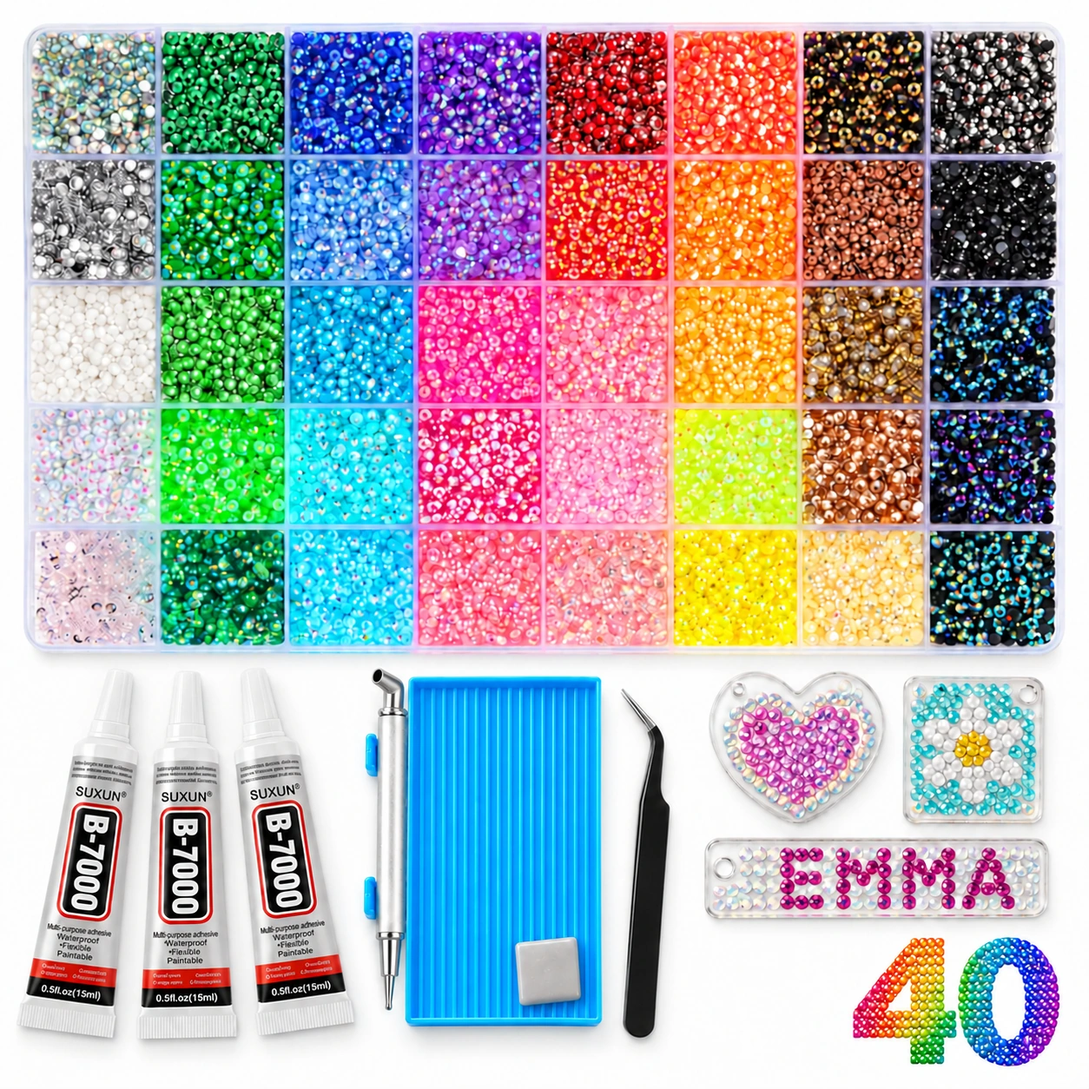
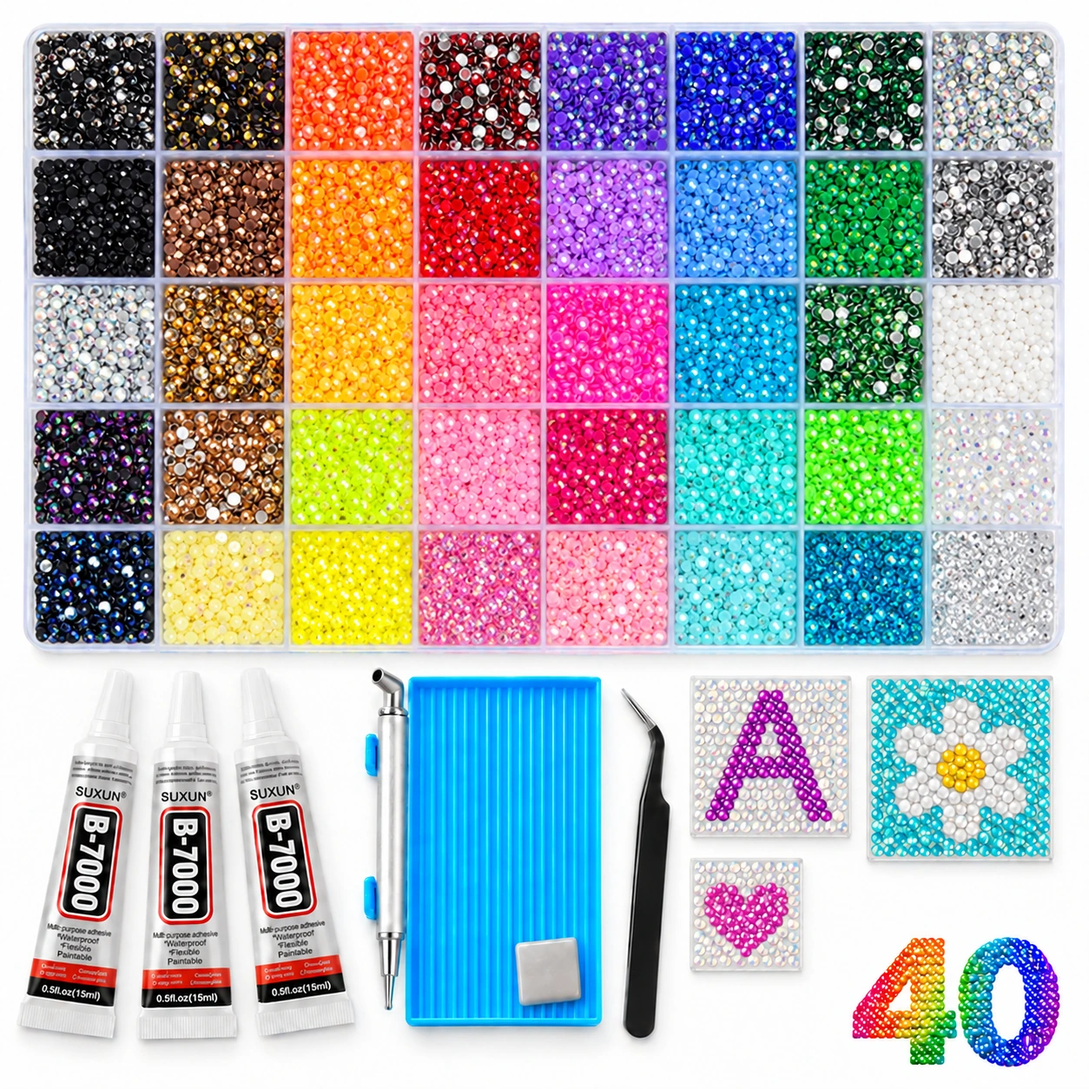
Correct forty-colour palette and compartment order from physical sample

diff --git a/app-localized.js b/app-localized.js
@@ -50,7 +50,7 @@
     updateSizeNote();if($('sizeQuantity'))$('sizeQuantity').textContent=state.pattern.total.toLocaleString();if($('fullStoneCount'))$('fullStoneCount').textContent=(state.fullTotal||0).toLocaleString();
     renderList();render();return true;}catch(e){markPending();toast(e.message);return false;}}
   function selectColour(i){const active=document.activeElement,container=active&&active.closest?active.closest('#colorList,#boxGrid'):null,index=container?Array.from(container.querySelectorAll('button')).indexOf(active):-1;state.highlight=state.highlight===i?null:i;state.compare=false;$('compareButton').setAttribute('aria-pressed','false');$('compareButton').textContent='Original image';renderList();render();if(index>=0)container.querySelectorAll('button')[index]?.focus({preventScroll:true});}
-  function renderBox(){const box=$('boxGrid');box.replaceChildren();palette.forEach((colour,i)=>{const count=state.pattern.counts[i],button=document.createElement('button');button.className='box-cell'+(!count?' unused':'')+(state.highlight===i?' active':'');const photo=document.createElement('span');photo.className='compartment-photo';const picture=document.createElement('img');picture.src='assets/spark/kit-reference.webp';picture.alt='';picture.loading='lazy';picture.style.cssText='width:929%;left:-'+((42+(colour.column-1)*149)/135*100)+'%;top:-'+((37+(colour.row-1)*143)/135*100)+'%;';photo.append(picture);const number=document.createElement('span');number.className='compartment-number';number.textContent=Number(colour.id);button.append(photo,number);button.style.setProperty('--stone-colour',colour.hex);button.setAttribute('aria-pressed',String(state.highlight===i));button.setAttribute('aria-label','Number '+Number(colour.id)+', row '+colour.row+', column '+colour.column+', '+count+' stones');button.title=colour.name+' · row '+colour.row+', column '+colour.column;button.addEventListener('click',()=>selectColour(i));box.append(button);});if(state.highlight===null){$('boxPosition').textContent='Choose a number to locate its compartment.';}else{const c=palette[state.highlight],count=state.pattern.counts[state.highlight];$('boxPosition').textContent='No. '+Number(c.id)+' · Row '+c.row+', column '+c.column+' · '+(count?count+' stones needed':'Not used in this pattern');$('previewTip').textContent=count?'Showing number '+Number(c.id)+'. Select it again to show all colours.':'Number '+Number(c.id)+' is not used in this pattern.';}}
+  function renderBox(){const box=$('boxGrid');box.replaceChildren();palette.forEach((colour,i)=>{const count=state.pattern.counts[i],button=document.createElement('button');button.className='box-cell'+(!count?' unused':'')+(state.highlight===i?' active':'');const photo=document.createElement('span');photo.className='compartment-photo';const picture=document.createElement('img');picture.src=colour.photo.src;picture.alt='';picture.loading='lazy';const [x0,y0,x1,y1]=colour.photo.box,pw=x1-x0,ph=y1-y0;picture.style.cssText='width:'+(colour.photo.width/pw*100)+'%;height:'+(colour.photo.height/ph*100)+'%;left:-'+(x0/pw*100)+'%;top:-'+(y0/ph*100)+'%;';photo.append(picture);const number=document.createElement('span');number.className='compartment-number';number.textContent=Number(colour.id);button.append(photo,number);button.style.setProperty('--stone-colour',colour.hex);button.setAttribute('aria-pressed',String(state.highlight===i));button.setAttribute('aria-label','Number '+Number(colour.id)+', row '+colour.row+', column '+colour.column+', '+count+' stones');button.title=colour.name+' · row '+colour.row+', column '+colour.column;button.addEventListener('click',()=>selectColour(i));box.append(button);});if(state.highlight===null){$('boxPosition').textContent='Choose a number to locate its compartment.';}else{const c=palette[state.highlight],count=state.pattern.counts[state.highlight];$('boxPosition').textContent='No. '+Number(c.id)+' · Row '+c.row+', column '+c.column+' · '+(count?count+' stones needed':'Not used in this pattern');$('previewTip').textContent=count?'Showing number '+Number(c.id)+'. Select it again to show all colours.':'Number '+Number(c.id)+' is not used in this pattern.';}}
   function renderList(){const list=$('colorList');list.replaceChildren();state.pattern.counts.forEach((count,i)=>{if(!count)return;const color=palette[i],button=document.createElement('button');button.className='color-row'+(state.highlight===i?' active':'');button.setAttribute('aria-label','Number '+Number(color.id)+', row '+color.row+', column '+color.column+', '+count+' stones');button.setAttribute('aria-pressed',String(state.highlight===i));button.innerHTML='<span class="color-swatch" style="background:'+color.hex+'"></span><span class="color-info"><strong>No. '+Number(color.id)+'</strong><small>Row '+color.row+' · Column '+color.column+'</small></span><span class="color-amount">'+count+'<small>stones</small></span>';button.addEventListener('click',()=>selectColour(i));list.append(button);});if(!state.pattern.total){const p=document.createElement('p');p.className='hint';p.textContent='No colours needed.';list.append(p);}$('clearHighlight').disabled=state.highlight===null;if(state.highlight===null)$('previewTip').textContent=state.pattern.total?'Choose a number to find its stones in the pattern.':'No stones in this pattern. Try another image or turn off white-area filtering.';renderBox();}
   function drawFacet(g,px,py,step,hex){
     const radius=step*.5,inner=radius*.52;
@@ -205,7 +205,7 @@
   }
   $('zoomIn').addEventListener('click',()=>zoom(state.zoom*1.5));$('zoomOut').addEventListener('click',()=>zoom(state.zoom/1.5));$('zoomReset').addEventListener('click',()=>zoom(1));
   $('imageInput').addEventListener('change',e=>loadImage(e.target.files[0]));$('dropZone').addEventListener('keydown',e=>{if(e.key==='Enter'||e.key===' '){e.preventDefault();$('imageInput').click();}});['dragenter','dragover'].forEach(type=>$('dropZone').addEventListener(type,e=>{e.preventDefault();$('dropZone').classList.add('dragover');}));['dragleave','drop'].forEach(type=>$('dropZone').addEventListener(type,e=>{e.preventDefault();$('dropZone').classList.remove('dragover');if(type==='drop')loadImage(e.dataTransfer.files[0]);}));
-  $('exportPng').addEventListener('click',exportPng);$('closeExport').addEventListener('click',()=>$('exportDialog').close());$('exportCsv').addEventListener('click',()=>{if(state.pending||!state.pattern.total)return;const csvCell=v=>'\"'+String(v).replaceAll('\"','\"\"')+'\"';const tr=v=>window.WallfidI18n?WallfidI18n.translate(v):v;const rows=[['Palette version','Pattern width mm','Pattern height mm','Stone diameter mm','Spacing mm','Pattern shape','Pattern style','Number','Row','Column','Photo description','Quantity','Stock status'].map(v=>csvCell(tr(v))).join(',')];state.pattern.counts.forEach((count,i)=>{if(count)rows.push([state.pattern.paletteVersion,state.pattern.width,state.pattern.height,state.pattern.diameter,state.pattern.pitch,state.pattern.shape,state.pattern.style||'full',Number(palette[i].id),palette[i].row,palette[i].column,tr(palette[i].name),count,tr('Not entered')].map(csvCell).join(','));});download(new Blob(['\ufeff'+rows.join('\r\n')],{type:'text/csv;charset=utf-8'}),'wallfid-quantities-photo-estimates.csv');});$('printButton').addEventListener('click',async()=>{if(state.pending||!state.pattern.total)return;const img=preparePrint();await Promise.all(Array.from($('printArea').querySelectorAll('img')).map(img=>img.decode()));window.print();});$('helpButton').addEventListener('click',()=>$('helpDialog').showModal());$('fullGuideButton').addEventListener('click',()=>$('helpDialog').showModal());$('closeHelp').addEventListener('click',()=>$('helpDialog').close());
+  $('exportPng').addEventListener('click',exportPng);$('closeExport').addEventListener('click',()=>$('exportDialog').close());$('exportCsv').addEventListener('click',()=>{if(state.pending||!state.pattern.total)return;const csvCell=v=>'\"'+String(v).replaceAll('\"','\"\"')+'\"';const tr=v=>window.WallfidI18n?WallfidI18n.translate(v):v;const rows=[['Palette version','Pattern width mm','Pattern height mm','Stone diameter mm','Spacing mm','Pattern shape','Pattern style','Number','Row','Column','Photo description','Quantity','Stock status'].map(v=>csvCell(tr(v))).join(',')];state.pattern.counts.forEach((count,i)=>{if(count)rows.push([state.pattern.paletteVersion,state.pattern.width,state.pattern.height,state.pattern.diameter,state.pattern.pitch,state.pattern.shape,state.pattern.style||'full',Number(palette[i].id),palette[i].row,palette[i].column,tr(palette[i].name),count,tr('Not entered')].map(csvCell).join(','));});download(new Blob(['\ufeff'+rows.join('\r\n')],{type:'text/csv;charset=utf-8'}),'wallfid-quantities-physical-v2.csv');});$('printButton').addEventListener('click',async()=>{if(state.pending||!state.pattern.total)return;const img=preparePrint();await Promise.all(Array.from($('printArea').querySelectorAll('img')).map(img=>img.decode()));window.print();});$('helpButton').addEventListener('click',()=>$('helpDialog').showModal());$('fullGuideButton').addEventListener('click',()=>$('helpDialog').showModal());$('closeHelp').addEventListener('click',()=>$('helpDialog').close());
   window.addEventListener('beforeprint',()=>{if(state.pattern&&!state.pending){if(!$('printArea').querySelector('img'))preparePrint();}else{const notice=document.createElement('p');notice.textContent='Changes have not been applied. Return to the workspace and select Create pattern before printing.';$('printArea').replaceChildren(notice);WallfidI18n.apply($('printArea'));}});useExample('flower');zoom(1);updateSizeNote();
   document.querySelectorAll('[data-starter]').forEach(button=>button.addEventListener('click',()=>{
     if(button.dataset.starter==='initial')$('initialInput').value='A';

diff --git a/app-wallfid.js b/app-wallfid.js
@@ -50,7 +50,7 @@
     updateSizeNote();if($('sizeQuantity'))$('sizeQuantity').textContent=state.pattern.total.toLocaleString();if($('fullStoneCount'))$('fullStoneCount').textContent=(state.fullTotal||0).toLocaleString();
     renderList();render();return true;}catch(e){markPending();toast(e.message);return false;}}
   function selectColour(i){const active=document.activeElement,container=active&&active.closest?active.closest('#colorList,#boxGrid'):null,index=container?Array.from(container.querySelectorAll('button')).indexOf(active):-1;state.highlight=state.highlight===i?null:i;state.compare=false;$('compareButton').setAttribute('aria-pressed','false');$('compareButton').textContent='Original image';renderList();render();if(index>=0)container.querySelectorAll('button')[index]?.focus({preventScroll:true});}
-  function renderBox(){const box=$('boxGrid');box.replaceChildren();palette.forEach((colour,i)=>{const count=state.pattern.counts[i],button=document.createElement('button');button.className='box-cell'+(!count?' unused':'')+(state.highlight===i?' active':'');const photo=document.createElement('span');photo.className='compartment-photo';const picture=document.createElement('img');picture.src='assets/spark/kit-reference.webp';picture.alt='';picture.loading='lazy';picture.style.cssText='width:929%;left:-'+((42+(colour.column-1)*149)/135*100)+'%;top:-'+((37+(colour.row-1)*143)/135*100)+'%;';photo.append(picture);const number=document.createElement('span');number.className='compartment-number';number.textContent=Number(colour.id);button.append(photo,number);button.style.setProperty('--stone-colour',colour.hex);button.setAttribute('aria-pressed',String(state.highlight===i));button.setAttribute('aria-label','Number '+Number(colour.id)+', row '+colour.row+', column '+colour.column+', '+count+' stones');button.title=colour.name+' · row '+colour.row+', column '+colour.column;button.addEventListener('click',()=>selectColour(i));box.append(button);});if(state.highlight===null){$('boxPosition').textContent='Choose a number to locate its compartment.';}else{const c=palette[state.highlight],count=state.pattern.counts[state.highlight];$('boxPosition').textContent='No. '+Number(c.id)+' · Row '+c.row+', column '+c.column+' · '+(count?count+' stones needed':'Not used in this pattern');$('previewTip').textContent=count?'Showing number '+Number(c.id)+'. Select it again to show all colours.':'Number '+Number(c.id)+' is not used in this pattern.';}}
+  function renderBox(){const box=$('boxGrid');box.replaceChildren();palette.forEach((colour,i)=>{const count=state.pattern.counts[i],button=document.createElement('button');button.className='box-cell'+(!count?' unused':'')+(state.highlight===i?' active':'');const photo=document.createElement('span');photo.className='compartment-photo';const picture=document.createElement('img');picture.src=colour.photo.src;picture.alt='';picture.loading='lazy';const [x0,y0,x1,y1]=colour.photo.box,pw=x1-x0,ph=y1-y0;picture.style.cssText='width:'+(colour.photo.width/pw*100)+'%;height:'+(colour.photo.height/ph*100)+'%;left:-'+(x0/pw*100)+'%;top:-'+(y0/ph*100)+'%;';photo.append(picture);const number=document.createElement('span');number.className='compartment-number';number.textContent=Number(colour.id);button.append(photo,number);button.style.setProperty('--stone-colour',colour.hex);button.setAttribute('aria-pressed',String(state.highlight===i));button.setAttribute('aria-label','Number '+Number(colour.id)+', row '+colour.row+', column '+colour.column+', '+count+' stones');button.title=colour.name+' · row '+colour.row+', column '+colour.column;button.addEventListener('click',()=>selectColour(i));box.append(button);});if(state.highlight===null){$('boxPosition').textContent='Choose a number to locate its compartment.';}else{const c=palette[state.highlight],count=state.pattern.counts[state.highlight];$('boxPosition').textContent='No. '+Number(c.id)+' · Row '+c.row+', column '+c.column+' · '+(count?count+' stones needed':'Not used in this pattern');$('previewTip').textContent=count?'Showing number '+Number(c.id)+'. Select it again to show all colours.':'Number '+Number(c.id)+' is not used in this pattern.';}}
   function renderList(){const list=$('colorList');list.replaceChildren();state.pattern.counts.forEach((count,i)=>{if(!count)return;const color=palette[i],button=document.createElement('button');button.className='color-row'+(state.highlight===i?' active':'');button.setAttribute('aria-label','Number '+Number(color.id)+', row '+color.row+', column '+color.column+', '+count+' stones');button.setAttribute('aria-pressed',String(state.highlight===i));button.innerHTML='<span class="color-swatch" style="background:'+color.hex+'"></span><span class="color-info"><strong>No. '+Number(color.id)+'</strong><small>Row '+color.row+' · Column '+color.column+'</small></span><span class="color-amount">'+count+'<small>stones</small></span>';button.addEventListener('click',()=>selectColour(i));list.append(button);});if(!state.pattern.total){const p=document.createElement('p');p.className='hint';p.textContent='No colours needed.';list.append(p);}$('clearHighlight').disabled=state.highlight===null;if(state.highlight===null)$('previewTip').textContent=state.pattern.total?'Choose a number to find its stones in the pattern.':'No stones in this pattern. Try another image or turn off white-area filtering.';renderBox();}
   function drawFacet(g,px,py,step,hex){
     const radius=step*.5,inner=radius*.52;
@@ -205,7 +205,7 @@
   }
   $('zoomIn').addEventListener('click',()=>zoom(state.zoom*1.5));$('zoomOut').addEventListener('click',()=>zoom(state.zoom/1.5));$('zoomReset').addEventListener('click',()=>zoom(1));
   $('imageInput').addEventListener('change',e=>loadImage(e.target.files[0]));$('dropZone').addEventListener('keydown',e=>{if(e.key==='Enter'||e.key===' '){e.preventDefault();$('imageInput').click();}});['dragenter','dragover'].forEach(type=>$('dropZone').addEventListener(type,e=>{e.preventDefault();$('dropZone').classList.add('dragover');}));['dragleave','drop'].forEach(type=>$('dropZone').addEventListener(type,e=>{e.preventDefault();$('dropZone').classList.remove('dragover');if(type==='drop')loadImage(e.dataTransfer.files[0]);}));
-  $('exportPng').addEventListener('click',exportPng);$('closeExport').addEventListener('click',()=>$('exportDialog').close());$('exportCsv').addEventListener('click',()=>{if(state.pending||!state.pattern.total)return;const csvCell=v=>'\"'+String(v).replaceAll('\"','\"\"')+'\"';const tr=v=>window.WallfidI18n?WallfidI18n.translate(v):v;const rows=[['Palette version','Pattern width mm','Pattern height mm','Stone diameter mm','Spacing mm','Pattern shape','Pattern style','Number','Row','Column','Photo description','Quantity','Stock status'].map(v=>csvCell(tr(v))).join(',')];state.pattern.counts.forEach((count,i)=>{if(count)rows.push([state.pattern.paletteVersion,state.pattern.width,state.pattern.height,state.pattern.diameter,state.pattern.pitch,state.pattern.shape,state.pattern.style||'full',Number(palette[i].id),palette[i].row,palette[i].column,tr(palette[i].name),count,tr('Not entered')].map(csvCell).join(','));});download(new Blob(['\ufeff'+rows.join('\r\n')],{type:'text/csv;charset=utf-8'}),'wallfid-quantities-photo-estimates.csv');});$('printButton').addEventListener('click',async()=>{if(state.pending||!state.pattern.total)return;const img=preparePrint();await Promise.all(Array.from($('printArea').querySelectorAll('img')).map(img=>img.decode()));window.print();});$('helpButton').addEventListener('click',()=>$('helpDialog').showModal());$('fullGuideButton').addEventListener('click',()=>$('helpDialog').showModal());$('closeHelp').addEventListener('click',()=>$('helpDialog').close());
+  $('exportPng').addEventListener('click',exportPng);$('closeExport').addEventListener('click',()=>$('exportDialog').close());$('exportCsv').addEventListener('click',()=>{if(state.pending||!state.pattern.total)return;const csvCell=v=>'\"'+String(v).replaceAll('\"','\"\"')+'\"';const tr=v=>window.WallfidI18n?WallfidI18n.translate(v):v;const rows=[['Palette version','Pattern width mm','Pattern height mm','Stone diameter mm','Spacing mm','Pattern shape','Pattern style','Number','Row','Column','Photo description','Quantity','Stock status'].map(v=>csvCell(tr(v))).join(',')];state.pattern.counts.forEach((count,i)=>{if(count)rows.push([state.pattern.paletteVersion,state.pattern.width,state.pattern.height,state.pattern.diameter,state.pattern.pitch,state.pattern.shape,state.pattern.style||'full',Number(palette[i].id),palette[i].row,palette[i].column,tr(palette[i].name),count,tr('Not entered')].map(csvCell).join(','));});download(new Blob(['\ufeff'+rows.join('\r\n')],{type:'text/csv;charset=utf-8'}),'wallfid-quantities-physical-v2.csv');});$('printButton').addEventListener('click',async()=>{if(state.pending||!state.pattern.total)return;const img=preparePrint();await Promise.all(Array.from($('printArea').querySelectorAll('img')).map(img=>img.decode()));window.print();});$('helpButton').addEventListener('click',()=>$('helpDialog').showModal());$('fullGuideButton').addEventListener('click',()=>$('helpDialog').showModal());$('closeHelp').addEventListener('click',()=>$('helpDialog').close());
   window.addEventListener('beforeprint',()=>{if(state.pattern&&!state.pending){if(!$('printArea').querySelector('img'))preparePrint();}else{const notice=document.createElement('p');notice.textContent='Changes have not been applied. Return to the workspace and select Create pattern before printing.';$('printArea').replaceChildren(notice);}});useExample('flower');zoom(1);updateSizeNote();
   document.querySelectorAll('[data-starter]').forEach(button=>button.addEventListener('click',()=>{
     if(button.dataset.starter==='initial')$('initialInput').value='A';

diff --git a/pattern-core-spark.js b/pattern-core-spark.js
@@ -1,10 +1,11 @@
-/* Photo-derived estimates. Numbering approved; physical colours and stock not calibrated. */
+/* Physical sample order, 2026-10-13. Front/body pixel estimates; not instrument-calibrated. */
 (function(root){
   'use strict';
-  const swatches=[["Clear iridescent", "#91a7a0"], ["Deep green", "#2c774b"], ["Iridescent blue", "#3339aa"], ["Iridescent purple", "#7139af"], ["Red", "#94262c"], ["Coral orange", "#ef7351"], ["Black & gold", "#462e25"], ["Black & silver", "#4e4747"], ["Silver grey", "#999ca2"], ["Emerald green", "#1d9d44"], ["Light blue", "#699bdb"], ["Lilac", "#a461c3"], ["Orange red", "#e0553f"], ["Orange yellow", "#f3a13c"], ["Copper brown", "#995748"], ["Black", "#19171a"], ["Milky white", "#f0eeea"], ["Grass green", "#4eb052"], ["Turquoise", "#22b3db"], ["Hot pink", "#ef6ba9"], ["Coral pink", "#f39db7"], ["Golden yellow", "#f5c853"], ["Antique gold", "#9b7347"], ["Blue-green on black", "#1c2a3e"], ["Iridescent white", "#dddce7"], ["Bright green", "#52f054"], ["Aqua", "#4ee6ed"], ["Rose pink", "#e777a3"], ["Light pink", "#f5b6d7"], ["Lime yellow", "#dcfa5e"], ["Copper gold", "#b7785b"], ["Blue-purple on black", "#222747"], ["Pale pink silver", "#e0d3dc"], ["Iridescent teal", "#1e9667"], ["Sky blue", "#5be1f1"], ["Pink", "#f29db5"], ["Peach pink", "#f3b8be"], ["Yellow", "#f7ed27"], ["Pale yellow", "#f8e29f"], ["Green-teal on black", "#2d4746"]];
+  const swatches=[["Black & silver", "#1e1c1f"], ["Black & gold", "#211b1c"], ["Coral orange", "#ff6b3a"], ["Red", "#39191e"], ["Iridescent purple", "#5243b4"], ["Iridescent blue", "#2b2dc2"], ["Deep green", "#1d2829"], ["Clear iridescent", "#c0c6cf"], ["Black", "#121017"], ["Copper brown", "#62443e"], ["Orange yellow", "#ffa040"], ["Orange red", "#c0242d"], ["Lilac", "#a760d9"], ["Light blue", "#5c87e7"], ["Emerald green", "#3f874a"], ["Silver grey", "#c8c4cf"], ["Iridescent white", "#c3bcc4"], ["Antique gold", "#775a3c"], ["Golden yellow", "#ffb64d"], ["Coral pink", "#f46189"], ["Hot pink", "#ff3a9a"], ["Turquoise", "#3088c4"], ["Grass green", "#375a3c"], ["Milky white", "#f0f0f0"], ["Blue-purple on black", "#19171c"], ["Copper gold", "#684e3a"], ["Lime yellow", "#d8eb56"], ["Light pink", "#ff87b5"], ["Rose pink", "#ad2652"], ["Aqua", "#68bebd"], ["Bright green", "#a1f867"], ["Clear iridescent", "#e0e3e6"], ["Blue-green on black", "#101320"], ["Pale yellow", "#fff6a2"], ["Yellow", "#fdff51"], ["Pale pink silver", "#d36e9f"], ["Peach pink", "#ffa1c9"], ["Sky blue", "#81c0cf"], ["Iridescent teal", "#0e699d"], ["Clear iridescent", "#cccede"]];
   function rgb(hex){return [1,3,5].map(i=>parseInt(hex.slice(i,i+2),16));}
   function lab([r,g,b]){const [R,G,B]=[r,g,b].map(v=>{v/=255;return v>.04045?Math.pow((v+.055)/1.055,2.4):v/12.92;});const f=v=>v>.008856?Math.cbrt(v):7.787*v+16/116;const x=f((R*.4124+G*.3576+B*.1805)/.95047),y=f(R*.2126+G*.7152+B*.0722),z=f((R*.0193+G*.1192+B*.9505)/1.08883);return [116*y-16,500*(x-y),200*(y-z)];}
-  const palette=swatches.map(([name,hex],i)=>({id:String(i+1).padStart(2,'0'),name,hex,row:Math.floor(i/8)+1,column:i%8+1,rgb:rgb(hex),lab:lab(rgb(hex))}));
+  const physicalBoxes=[[174, 114, 316, 259], [404, 117, 546, 262], [633, 121, 776, 264], [863, 125, 1005, 267], [1093, 128, 1235, 270], [1322, 132, 1465, 272], [1552, 135, 1694, 275], [1782, 139, 1924, 277], [164, 348, 307, 494], [395, 350, 539, 495], [627, 352, 770, 496], [858, 354, 1002, 496], [1090, 356, 1234, 497], [1322, 358, 1465, 498], [1553, 360, 1697, 499], [1785, 362, 1928, 500], [154, 583, 299, 728], [387, 583, 532, 727], [621, 583, 765, 727], [854, 584, 999, 726], [1087, 584, 1232, 725], [1321, 584, 1465, 725], [1554, 585, 1699, 724], [1787, 585, 1932, 723], [144, 817, 290, 963], [379, 816, 525, 960], [614, 814, 760, 958], [849, 813, 995, 956], [1085, 812, 1231, 953], [1320, 811, 1466, 951], [1555, 809, 1701, 949], [1790, 808, 1936, 946], [134, 1051, 281, 1197], [371, 1049, 518, 1193], [608, 1046, 755, 1189], [845, 1043, 992, 1185], [1082, 1040, 1229, 1181], [1319, 1037, 1466, 1177], [1556, 1034, 1703, 1173], [1793, 1031, 1940, 1169]];
+  const palette=swatches.map(([name,hex],i)=>({id:String(i+1).padStart(2,'0'),name,hex,row:Math.floor(i/8)+1,column:i%8+1,rgb:rgb(hex),lab:lab(rgb(hex)),photo:{src:"assets/spark/physical-kit-sample-v2.jpg",width:2059,height:1280,box:physicalBoxes[i]}}));
   const diameter=3;
   const boundary=Array.from({length:64},(_,i)=>[Math.cos(i*Math.PI/32)*1.502,Math.sin(i*Math.PI/32)*1.502]);
   function customSpec(width,height,pitch=3,shape='image',margin=0){
@@ -25,7 +26,7 @@
     }return true;
   }
   function nearest(color){const value=lab(color);let best=0,min=Infinity;palette.forEach((c,i)=>{const d=c.lab.reduce((s,v,k)=>s+(v-value[k])**2,0);if(d<min){min=d;best=i;}});return best;}
-  function quantize(rgba,spec,skipBackground=false){const {cols,rows}=spec;if(rgba.length!==cols*rows*4)throw new Error('Sample data does not match the grid');const cells=[],counts=Array(40).fill(0);for(let i=0;i<cols*rows;i++){const j=i*4,alpha=rgba[j+3]/255,color=[rgba[j],rgba[j+1],rgba[j+2]],x=i%cols,y=Math.floor(i/cols);const px=spec.offsetX+(x+.5)*spec.pitch,py=spec.offsetY+(y+.5)*spec.pitch;const blank=alpha<.5||!inside(spec,px,py)||(skipBackground&&color.every(v=>v>=238));if(blank){cells.push(-1);continue;}const index=nearest(color);cells.push(index);counts[index]++;}return {...spec,cells,counts,total:counts.reduce((a,b)=>a+b,0),used:counts.filter(Boolean).length,paletteVersion:'supplier-photo2-row-major-40-photo-estimates-v1'};}
+  function quantize(rgba,spec,skipBackground=false){const {cols,rows}=spec;if(rgba.length!==cols*rows*4)throw new Error('Sample data does not match the grid');const cells=[],counts=Array(40).fill(0);for(let i=0;i<cols*rows;i++){const j=i*4,alpha=rgba[j+3]/255,color=[rgba[j],rgba[j+1],rgba[j+2]],x=i%cols,y=Math.floor(i/cols);const px=spec.offsetX+(x+.5)*spec.pitch,py=spec.offsetY+(y+.5)*spec.pitch;const blank=alpha<.5||!inside(spec,px,py)||(skipBackground&&color.every(v=>v>=238));if(blank){cells.push(-1);continue;}const index=nearest(color);cells.push(index);counts[index]++;}return {...spec,cells,counts,total:counts.reduce((a,b)=>a+b,0),used:counts.filter(Boolean).length,paletteVersion:'physical-sample-2026-10-13-row-major-40-v2'};}
   function printTiles(spec){const nc=Math.floor(180/spec.pitch),nr=Math.floor(210/spec.pitch),tiles=[];for(let row=0;row<spec.rows;row+=nr)for(let col=0;col<spec.cols;col+=nc)tiles.push({col,row,cols:Math.min(nc,spec.cols-col),rows:Math.min(nr,spec.rows-row)});return tiles;}
   function outline(pattern){
     const cells=pattern.cells.map((v,k)=>{

diff --git a/index.html b/index.html
@@ -1,6 +1,6 @@
 <!doctype html>
 <html lang="en-GB">
-<head><meta charset="utf-8"><meta name="viewport" content="width=device-width,initial-scale=1"><meta name="theme-color" content="#6841c7"><meta name="description" content="Turn your picture into a numbered rhinestone pattern. Choose your acrylic board, use your 40-colour kit, and make it at your own pace."><link rel="icon" href="favicon.svg" type="image/svg+xml"><meta property="og:title" content="WALLFID Rhinestone Studio"><meta property="og:description" content="Make your own numbered rhinestone pattern with your 40-colour kit."><title>WALLFID Rhinestone Studio — Your picture. Your sparkle.</title><link rel="stylesheet" href="wallfid-preview.css?v=06010c8b0c9c"><script src="pattern-core-spark.js?v=b12d20707d08" defer></script><script src="image-sampling-wallfid.js?v=d829484fcde7" defer></script><link rel="stylesheet" href="mobile-flow.css?v=96acb1938367"><link rel="stylesheet" href="image-flow.css?v=21eec424de9d"><link rel="stylesheet" href="custom-pattern.css?v=2a018d73441f"><link rel="stylesheet" href="languages.css?v=7657e5e2a087"><script src="languages-data.js?v=275a703f956c" defer></script><script src="languages.js?v=b60c9b9e4350" defer></script><script src="app-localized.js?v=bfce376b3f94" defer></script><script src="mobile-flow.js?v=caa7e19c9114" defer></script><link rel="stylesheet" href="site-motion.css?v=d1b315d1af89"></head>
+<head><meta charset="utf-8"><meta name="viewport" content="width=device-width,initial-scale=1"><meta name="theme-color" content="#6841c7"><meta name="description" content="Turn your picture into a numbered rhinestone pattern. Choose your acrylic board, use your 40-colour kit, and make it at your own pace."><link rel="icon" href="favicon.svg" type="image/svg+xml"><meta property="og:title" content="WALLFID Rhinestone Studio"><meta property="og:description" content="Make your own numbered rhinestone pattern with your 40-colour kit."><title>WALLFID Rhinestone Studio — Your picture. Your sparkle.</title><link rel="stylesheet" href="wallfid-preview.css?v=06010c8b0c9c"><script src="pattern-core-spark.js?v=26c6b2989938" defer></script><script src="image-sampling-wallfid.js?v=d829484fcde7" defer></script><link rel="stylesheet" href="mobile-flow.css?v=96acb1938367"><link rel="stylesheet" href="image-flow.css?v=21eec424de9d"><link rel="stylesheet" href="custom-pattern.css?v=2a018d73441f"><link rel="stylesheet" href="languages.css?v=7657e5e2a087"><script src="languages-data.js?v=275a703f956c" defer></script><script src="languages.js?v=b60c9b9e4350" defer></script><script src="app-localized.js?v=06463ec7b662" defer></script><script src="mobile-flow.js?v=caa7e19c9114" defer></script><link rel="stylesheet" href="site-motion.css?v=d1b315d1af89"></head>
 <body>
 <a class="skip-link" href="#workspace">Skip to pattern maker</a>
 <header class="site-header"><a class="brand" href="index.html" aria-label="WALLFID Rhinestone Studio home"><svg viewBox="0 0 40 40" fill="none" aria-hidden="true"><path d="M20 2 38 20 20 38 2 20Z M20 2 29 20 20 38 11 20Z M2 20H38" stroke="currentColor" stroke-width="1.4"/></svg><span class="wallfid-wordmark"><span class="wallfid-lettering">WALLFID</span><span class="brand-descriptor">RHINESTONE STUDIO</span></span></a><nav aria-label="Main navigation"><a href="#ideas">A little inspiration</a><a href="#making">How it works</a><button id="helpButton">Making guide ↗</button></nav><button id="languageButton" class="language-button" aria-label="Choose your language" aria-haspopup="dialog" title="Choose your language"><svg viewBox="0 0 24 24" aria-hidden="true"><circle cx="12" cy="12" r="9"/><path d="M3 12h18M12 3c5 5 5 13 0 18M12 3c-5 5-5 13 0 18"/></svg><span id="languageCode" data-no-i18n>EN</span><span aria-hidden="true">⌄</span></button><button id="mobileHelp" class="mobile-only mobile-help" aria-label="Open making guide">Help <span aria-hidden="true">?</span></button><a class="header-action" href="#workspace">Make a pattern <span aria-hidden="true">↗</span></a></header>

diff --git a/spark-preview.css b/spark-preview.css
@@ -15,3 +15,6 @@
 @media(max-width:650px){.hero-copy h1 em{font-size:.82em;white-space:nowrap;letter-spacing:-2px}}
 html{scroll-behavior:auto}
 @media(prefers-reduced-motion:reduce){html{scroll-behavior:auto}.idea-art canvas{transition:none}}
+
+/* Keep physical-reference colours visible even when unused. */
+.box-cell.unused{opacity:1;filter:none}.box-cell.unused .compartment-number{color:#85778e}

diff --git a/README.md b/README.md
@@ -9,7 +9,7 @@ A public design preview and browser-based rhinestone pattern maker. Choose a sha
 - New images keep their original proportions by default, with transparent uncovered edges that do not consume stones. Fill-board cropping, scale and positioning are optional. Dark-photo enhancement preserves small light colours during cell sampling and can be turned off; bright illustrations retain their natural colours.
 - A header language button offers the EU's 24 official languages, Simplified/Traditional Chinese, Japanese and Korean (28 total). The selected language is saved locally; changing it preserves the active picture, board and pattern. Static initial translations cover interface copy, dynamic quantities, guides and PNG/print text. They are initial translations awaiting native-speaker proofreading, not certified localisation.
 - Language switching uses bundled dictionaries; it does not contact a translation service or transmit visitor images. The hero pen's two blue protrusions have been removed from the illustrative product image.
-- The colour values are estimates from a kit reference image, awaiting physical calibration. Stock quantities have not been entered. The supplied board corners are square. Centre spacing defaults to 3 mm and can be increased; kit boards reserve 3 mm at each edge. Check print scale before making.
+- The 40 colours and compartment order now come from the arrived physical sample, version physical-sample-2026-10-13-row-major-40-v2. The box thumbnails use the unmodified physical photograph. Front/body colour estimates exclude bright flat backs and glare and remain photographic estimates awaiting instrument calibration. Number 9 is Black (row 2, column 1), Number 18 Antique gold (row 3, column 2), and Number 24 Milky white (row 3, column 8). Stock quantities have not been entered. The supplied board corners are square. Centre spacing defaults to 3 mm and can be increased; kit boards reserve 3 mm at each edge. Check print scale before making.
 - Generated hero and process images are illustrative concepts. The process illustration's paper grid is not a placement template.
 - Custom patterns support image silhouettes, rectangles, ovals and hearts. Edge-connected white background removal preserves enclosed white subject details. Subject trimming and optional fine-outline emphasis improve clarity. A4 print tiles cover every grid cell exactly once; the legend includes the complete quantities. Width/height in CSV and PNG are the same physical dimensions as the preview.
 - At the current 3 mm pitch the largest board has 31 stones across. Fine lettering and photographic details simplify substantially.
